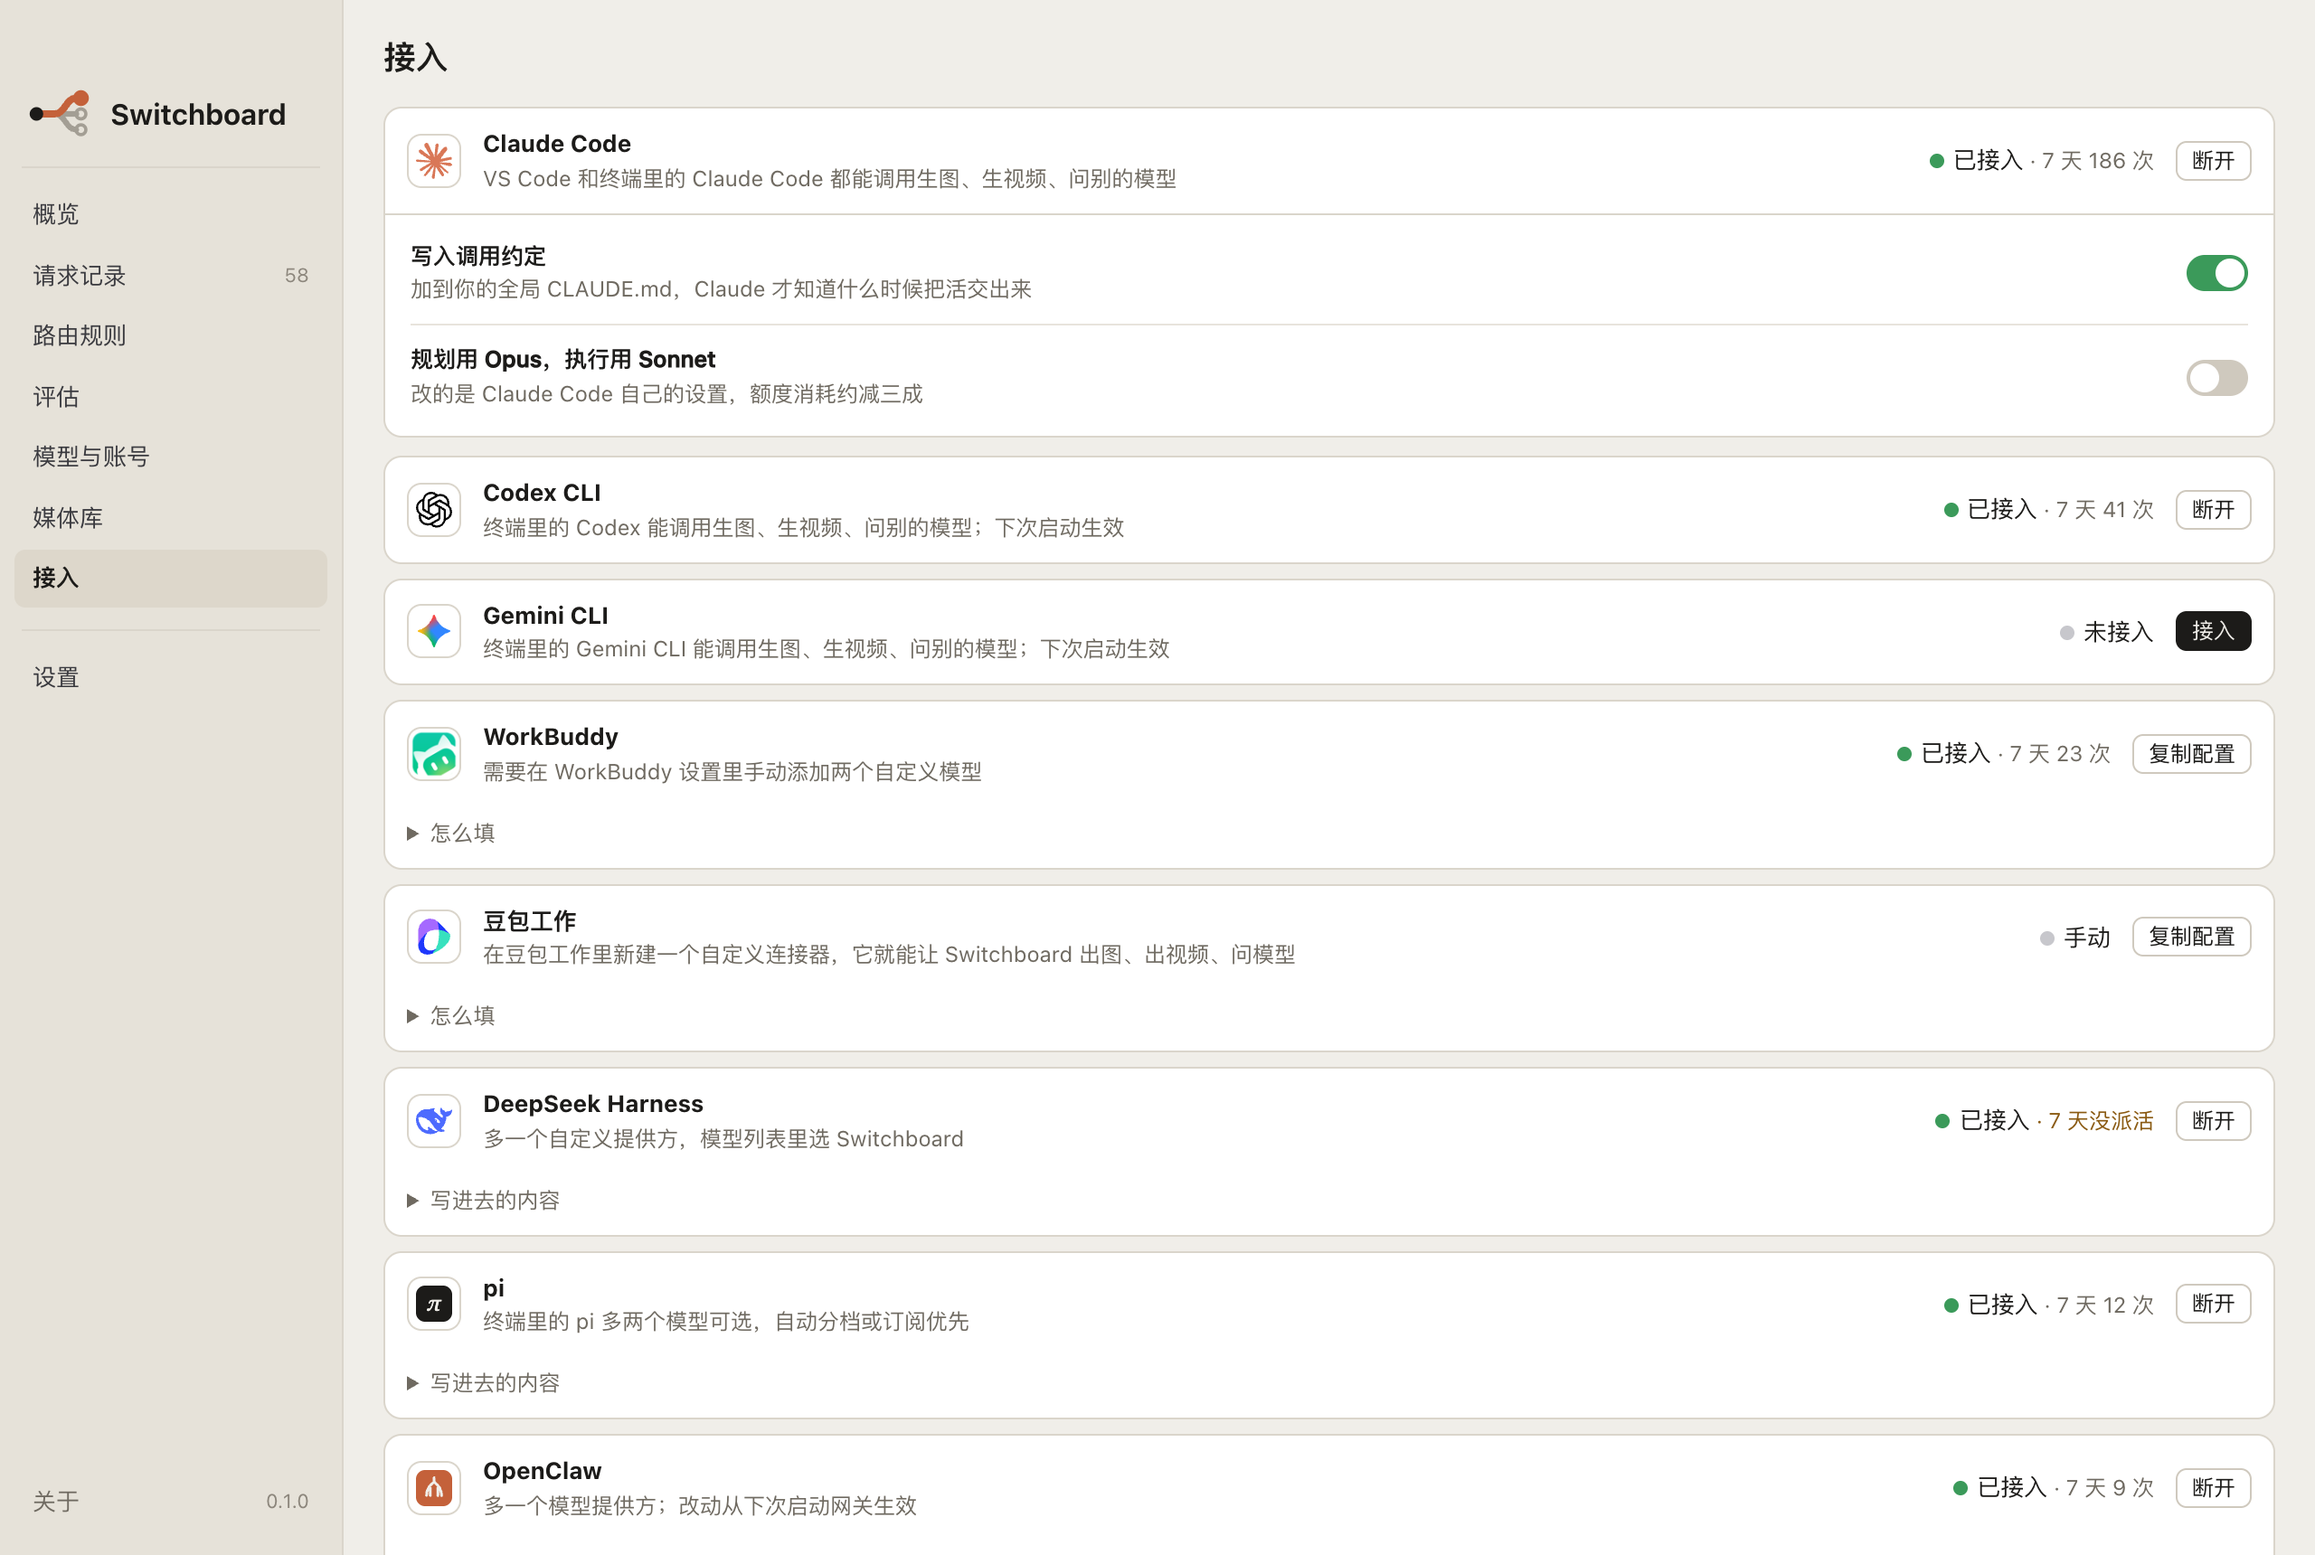
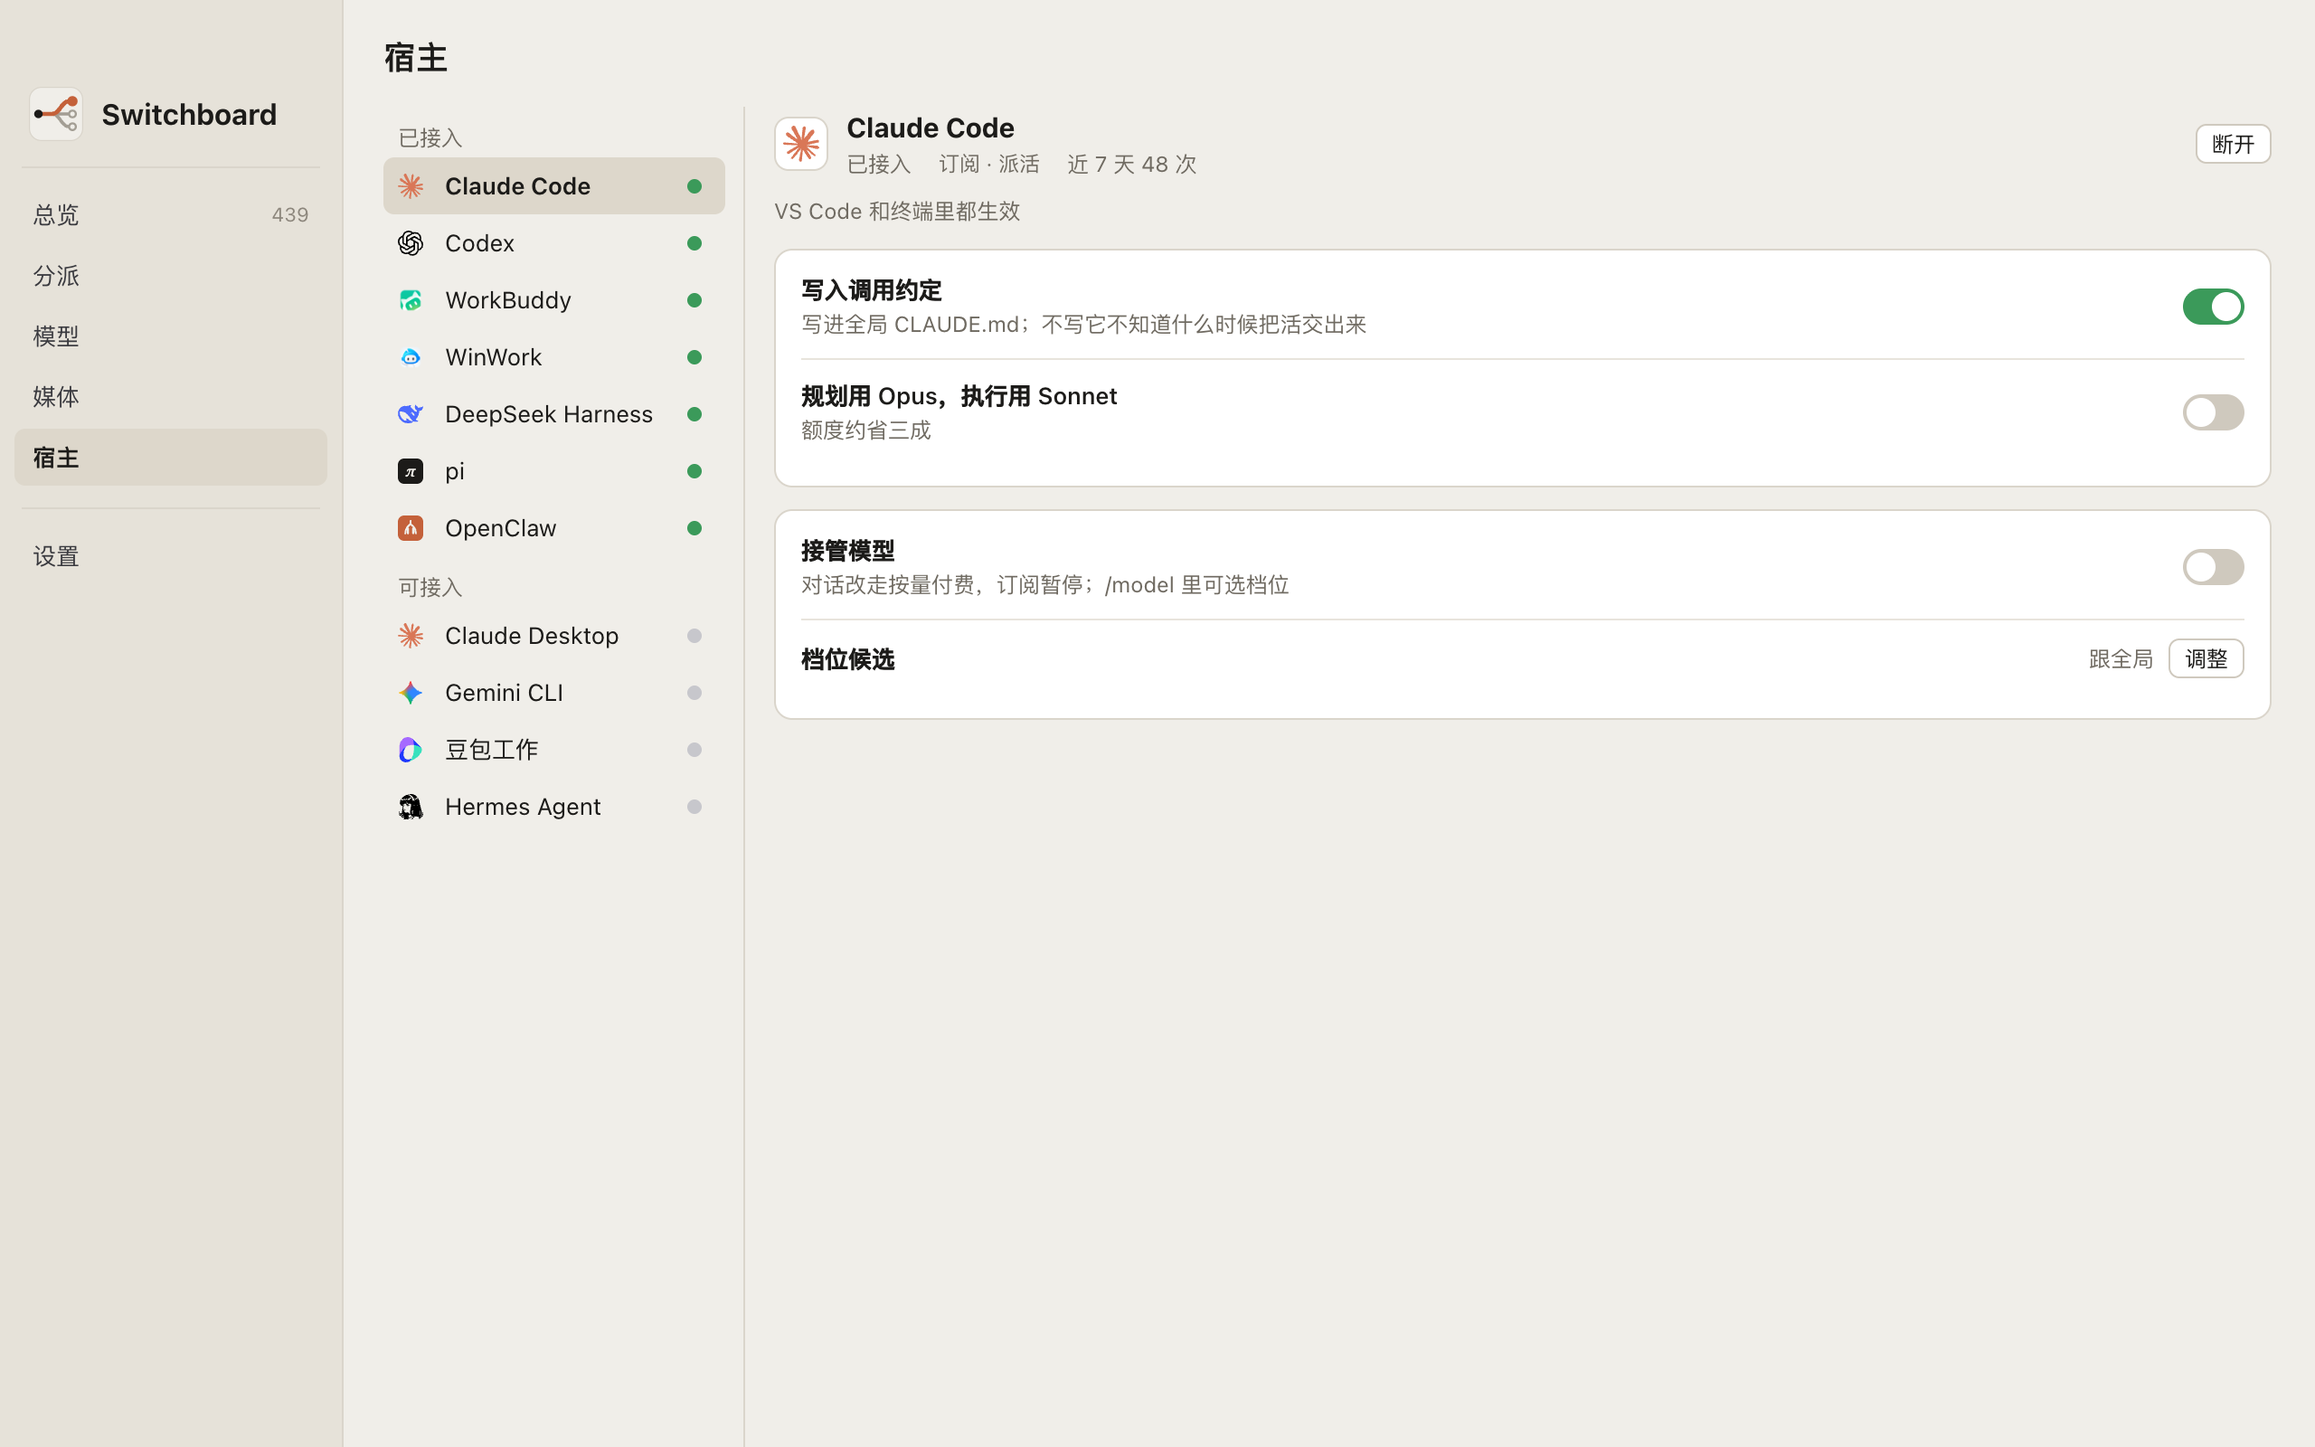
发布 0.4.0：版本号，发布说明 v0.4.0，README 与截图

diff --git a/cmd/imls/main.go b/cmd/imls/main.go
@@ -21,7 +21,7 @@ import (
 	"github.com/imoling/iml-switchboard/internal/surfaces/mcp"
 )
 
-var version = "0.3.0"
+var version = "0.4.0"
 
 func main() {
 	admin.Version = version

diff --git a/README.en.md b/README.en.md
@@ -27,7 +27,7 @@ It comes with a menu bar app (system tray on Windows) for quotas, spend, savings
 >
 > The app's interface is in Chinese for now.
 
-<p align="center"><img src="docs/images/overview.png" width="760" alt="Overview: calls, pay-as-you-go spend, savings versus Opus, subscription quota"></p>
+<p align="center"><img src="docs/images/overview.png" width="760" alt="Overview: pay-as-you-go spend, subscription quota, call count, and the records table"></p>
 
 <p align="center"><a href="docs/videos/switchboard-launch-en.mp4"><img src="docs/images/launch-poster.png" width="760" alt="46-second intro video"></a><br><sub>What it does, in 46 seconds · <a href="docs/videos/switchboard-launch-en.mp4">play the video</a></sub></p>
 
@@ -69,7 +69,8 @@ The tests come in three layers: a source scan; a fake CLI that records the argum
 **Routing**
 - Low, mid and high tiers, plus a top tier used only on explicit request; three modes: save, balanced and quality.
 - When the rules are unsure, a low-tier model judges the task first; if it can't answer within 10 seconds, the rules decide.
-- When a subscription runs out, hits a rate limit or errors, the next candidate takes over with the same conversation.
+- When a subscription runs out, hits a rate limit or errors, the next candidate takes over with the same conversation; a model pinned to a session falls back the same way.
+- Tier candidates: for each of the low, mid and high tiers, pick which channel models belong and which one is tried first, globally and optionally per host.
 - Each candidate is checked against its context window and larger windows are tried when a request doesn't fit. When nothing fits, Switchboard returns the standard `context_length_exceeded` error so the agent can compact its own conversation.
 - Mark a call as under-routed with one click; enough marks produce a rule suggestion. The evaluation feature re-runs samples on a high-tier model and has it judge blind whether the cheaper answer was good enough.
 
@@ -83,7 +84,7 @@ The tests come in three layers: a source scan; a fake CLI that records the argum
 | Agent | How it connects | Tested |
 |---|---|---|
 | Claude Code | MCP tools, usage notes in `CLAUDE.md`, slash commands | Used daily |
-| Codex | MCP tools, usage notes in `AGENTS.md` | Registered; hand-off flow verified with a simulated host |
+| Codex | MCP tools, usage notes in `AGENTS.md`; works with the `codex` CLI from npm or the one bundled in the ChatGPT desktop app | Registered; hand-off flow verified with a simulated host |
 | Gemini CLI | MCP tools, usage notes in `GEMINI.md` | Registered; personal Google accounts have moved to Antigravity, so an API key or enterprise account is needed |
 | pi | OpenAI-compatible endpoint | Agent turns with tool calls verified |
 | OpenClaw | OpenAI-compatible endpoint | Agent turns with tool calls verified |
@@ -100,13 +101,13 @@ The tests come in three layers: a source scan; a fake CLI that records the argum
 </tr>
 <tr>
 <td align="center">Menu bar: today's spend, quotas, routing mode</td>
-<td align="center">Connect agents and see how much each one delegates; edit routing rules in place</td>
+<td align="center">Hosts: connect agents and order their tier candidates; Dispatch: edit rules and review results</td>
 </tr>
 </table>
 
 **Also**
 - A ledger of every call: model, cost, and what the same call would have cost on Opus. The menu bar shows the last 7 days of savings. Costs can be shown in CNY or USD.
-- Themes: Standard plus three playful ones that only change the interface wording; one click returns to Standard for screen sharing.
+- Themes: Standard plus three playful ones that only change the interface wording; one click returns to Standard for screen sharing. Eight menu bar icon styles to choose from (Lab).
 - Backend service: Settings shows uptime with a one-click restart, and warns when the running backend isn't the one shipped with the installed app.
 - Update check: once a day Switchboard looks at GitHub Releases (falling back to the Gitee mirror), notifies you of a new version, and offers the installer for your platform from Settings.
 
@@ -118,7 +119,7 @@ The tests come in three layers: a source scan; a fake CLI that records the argum
 curl -fsSL https://raw.githubusercontent.com/imoling/iml-switchboard/main/scripts/install-mac.sh | bash
 ```
 
-It downloads the latest dmg for your chip (GitHub first, then the Gitee mirror), installs it into Applications and clears the download quarantine flag; if the backend is idle it switches it to the new version. You can also pass a dmg you already have: `bash install-mac.sh ~/Downloads/Switchboard_0.3.0_aarch64.dmg`.
+It downloads the latest dmg for your chip (GitHub first, then the Gitee mirror), installs it into Applications and clears the download quarantine flag; if the backend is idle it switches it to the new version. You can also pass a dmg you already have: `bash install-mac.sh ~/Downloads/Switchboard_0.4.0_aarch64.dmg`.
 
 **Installers**: download the installer for your system from the [Releases](https://github.com/imoling/iml-switchboard/releases) page (a dmg on macOS; an msi or exe on Windows). The installer already includes the `imls` backend.
 
@@ -185,7 +186,6 @@ Most rule misses are hard problems that contain no telltale keywords, which is w
 ## Roadmap
 
 - Signed installers and silent in-app updates (today: check for a new version and download it); verify Linux.
-- When Claude Code's subscription runs out, let it switch to Switchboard and continue on pay-as-you-go models (API keys only, never the subscription).
 - Rate limits on subscription lanes; stop sending whole conversations from the OpenAI-compatible endpoint to the Claude subscription by default.
 - More routing test data, growing the blind set to 200 cases.
 - A Copilot CLI subscription lane (through the official CLI).

diff --git a/docs/releases/v0.4.0.md b/docs/releases/v0.4.0.md
@@ -1,0 +1,41 @@
+这一版把界面重排了一遍，补上了「每档先试谁」的手排能力，菜单栏图标重画，并修掉几个会让请求整轮失败的问题。
+
+**界面重排**
+
+- 左侧菜单从八项缩到六项：总览、分派、模型、媒体、宿主、设置。「请求记录」并进总览，「评估」成为分派页的「回看」页签。
+- 总览只留三个会影响动作的数字：按量花费（和本月上限）、订阅额度（只列用过的）、调度次数（订阅 / 按量 / 媒体占比）。拓扑图默认收起成一行「接入 N 个 · 渠道 M 个」，点开展开，开合记住。下面直接是记录表，带搜索、来源、渠道和「只看失败」。
+- 记录表里任务用中文名，模型用显示名，订阅走的写「订阅」，免费型号写「免费」，失败的一行直接带原因。
+- 宿主页改成左边列表、右边详情：列表分已接入、可接入、未安装，只有名字和状态点；详情里只说这个宿主在哪生效、什么时候生效，开关的副文案只写后果。规则导入导出从设置挪到分派页。
+- 主窗口右半边的标题行和顶部留白也能拖动窗口。
+
+**档位候选：每档先试谁**
+
+- 分派页新增「档位候选」：低、中、高三档各一张表，勾选哪些渠道的型号进这一档、箭头排先后，第一个先试，保存立刻生效。
+- 每个宿主可以在宿主页另排一张自己的表，只对它生效；没自己排的档跟全局，全局也没排的按内置规则。表里条目全失效时自动往下一层找。
+- 订阅在哪能用说清楚了：宿主页每个宿主标「订阅 · 派活」「订阅 · 纯对话」或「不走订阅」，模型页订阅那组下面说明带工具的回合走按量付费，宿主型号表里「订阅优先」标「只接不带工具的对话」。
+
+**菜单栏图标与标志**
+
+- 菜单栏图标重画成实心底板挖空叉路，喂的是 2x 位图，Retina 上不再糊。设置的实验功能里可以在八种样式间切换：底板、线框、无框、插线板、拨杆、破框、像素主帅、三档。
+- 修了模板图标记没生效的问题：以前图标一直是非模板的黑底图，菜单栏变深色或壁纸鲜艳时和别的图标不一致；现在跟着系统反白。后台重启后图标停在灰色的问题也修了。
+- 主窗口左上角的标志换成和应用图标同一张。
+
+**修了什么**
+
+- 会话粘住的模型被限流或额度用完后，不再整轮报「没有可用的模型」，改为顺着这一档的候选回退，并清掉粘性记录。
+- 只装了 ChatGPT 桌面版、没有单独装 `codex` 命令时，接入页和模型页不再说「未安装」：桌面版自带的那份命令会被找到，命令不在 PATH 上时登录提示写全路径。
+- 宿主从没设过选项时接入页会白屏：已处理。
+- 后台换了版本后界面的词表不再停留在旧版。
+
+**安装**
+
+- 覆盖安装后到设置里点一下「重启」让后台换成新版，后台有请求在跑时安装脚本不会打断它。安装包仍未签名。
+
+---
+
+This release reworks the interface, adds hand-ordered tier candidate tables (global and per host), redraws the menu bar icon, and fixes several ways a request could fail outright.
+
+- Six menus instead of eight: Overview (now including the records table), Dispatch (rules plus the review tab), Models, Media, Hosts (a list-and-detail layout with trimmed copy) and Settings.
+- Tier candidates: pick which channel models belong to each tier and in what order, globally or per host; stale entries fall through to the next layer.
+- Menu bar icon: a solid tile with the fork cut out, shipped at 2x, with eight alternative styles under Settings → Lab; the template flag is now applied correctly so the icon follows the menu bar colour.
+- Fixes: a sticky session no longer fails the whole request when its model is rate-limited; the Codex CLI bundled inside the ChatGPT desktop app is detected; the hosts page no longer crashes for hosts without saved options; theme words reload when the backend is replaced.
